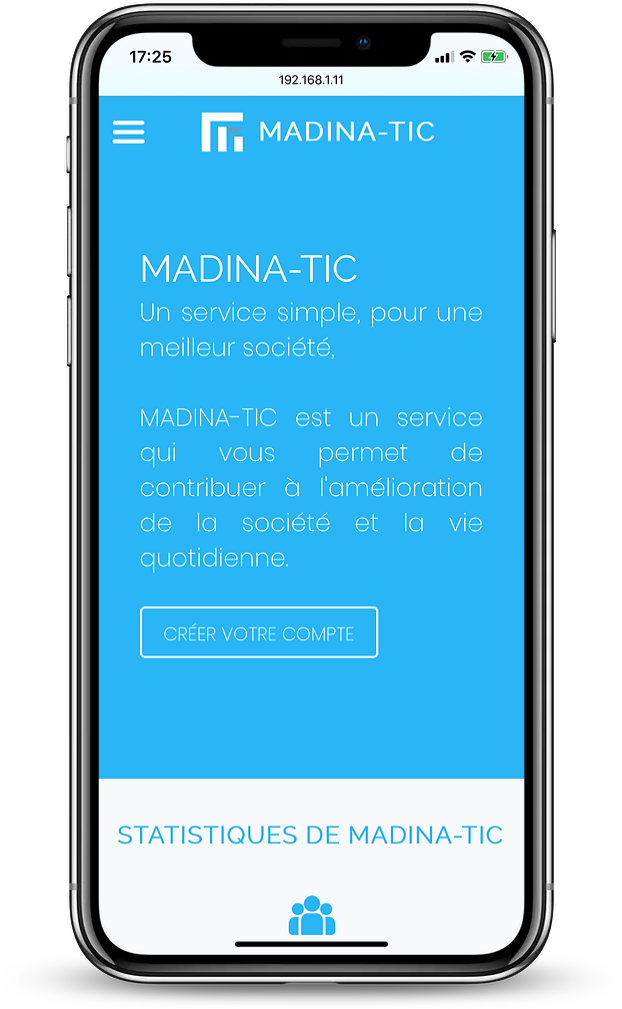
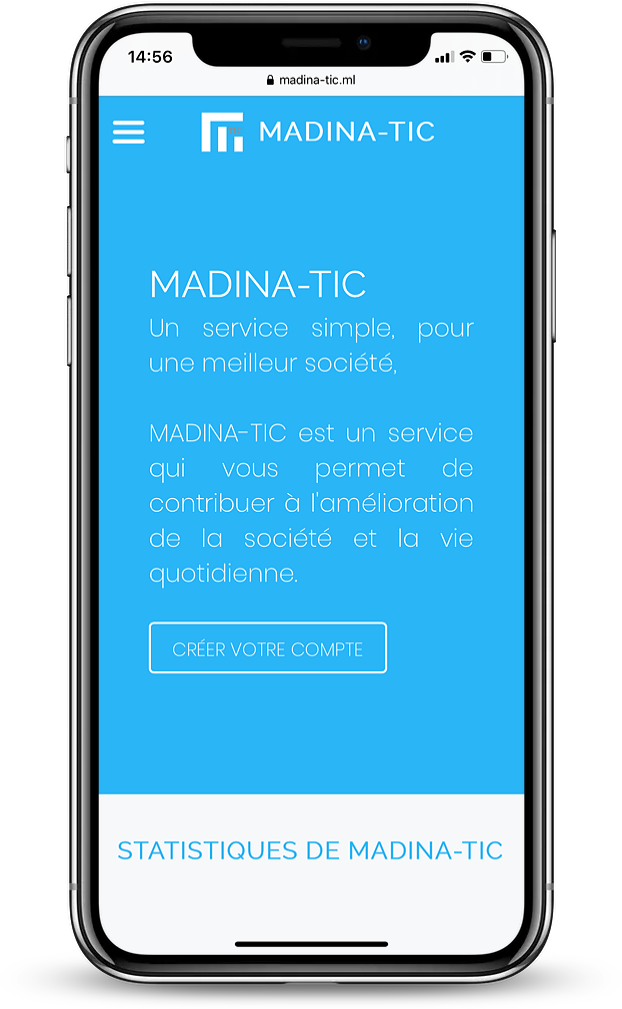
fixed bugs

diff --git a/frontend/src/components/HomeMain/HomeMain.jsx b/frontend/src/components/HomeMain/HomeMain.jsx
@@ -4,6 +4,8 @@ import { Image, Label } from "semantic-ui-react";
 import "./HomeMain.css";
 import iphone from "../../assets/images/iPhone_screenshot.png";
 import iphone2 from "../../assets/images/home_screenshot.png";
+import iphone2Ar from "../../assets/images/iphoneAr.png";
+import iphoneAr from "../../assets/images/iphone2Ar.png";
 import galaxy from "../../assets/images/android_screenshot.png";
 import badge from "../../assets/images/google_play_badge.png";
 import { ReactComponent as Checkmark } from "../../assets/icons/check_circle.svg";
@@ -20,6 +22,7 @@ import { useEffect } from "react";
 import axios from "axios";
 import AOS from "aos";
 import "aos/dist/aos.css"; // You can also use <link> for styles
+import { languages } from "../../language";
 // ..
 const HomeMain = (props) => {
   const { language } = props;
@@ -159,7 +162,7 @@ const HomeMain = (props) => {
             </Link>
           </div>
           <div className="_image_area">
-            <Image src={iphone2} className="_screenshot" />
+            <Image src={language.isFrench ? iphone2 : iphone2Ar} className="_screenshot" />
           </div>
         </div>
       </section>
@@ -202,7 +205,7 @@ const HomeMain = (props) => {
         <h1>{language.isFrench ? "fonctionnalités" : "المزايا و الخصائص"}</h1>
         <div className="_functions_body">
           <div className="_image_area">
-            <Image src={iphone} className="_screenshot" />
+            <Image src={language.isFrench ? iphone : iphoneAr} className="_screenshot" />
           </div>
           <div className="_items">
             {items.map((element) => {

diff --git a/frontend/src/components/HomeCitoyen/InfosScreen.jsx b/frontend/src/components/HomeCitoyen/InfosScreen.jsx
@@ -19,7 +19,7 @@ const InfoScreen = (props) => {
  const getData = (did) => {
   if (did)
    axios
-    .get("http://157.230.19.233/api/declarations/" + String(did) + "/", {
+    .get("https://www.madina-tic.ml/api/declarations/" + String(did) + "/", {
      headers: {
       "content-type": "application/json",
       Authorization: `Token ${localStorage.getItem("token")}`,
@@ -32,7 +32,7 @@ const InfoScreen = (props) => {
      if (res.data.status === "lack_of_info")
       axios
        .get(
-        `http://157.230.19.233/api/declarations_complement_demand/`,
+        `https://www.madina-tic.ml/api/declarations_complement_demand/`,
         {
          params: {
           declaration: did,
@@ -58,7 +58,7 @@ const InfoScreen = (props) => {
 
  const getTypes = () => {
   axios
-   .get("http://157.230.19.233/api/declarations_types/", {
+   .get("https://www.madina-tic.ml/api/declarations_types/", {
     headers: {
      "content-type": "application/json",
      Authorization: `Token ${localStorage.getItem("token")}`,

diff --git a/frontend/src/components/ComplementDeclaration/ComplementDeclaration.jsx b/frontend/src/components/ComplementDeclaration/ComplementDeclaration.jsx
@@ -120,7 +120,7 @@ const ComplementDeclaration = (props) => {
           },
         })
         .request({
-          url: "http://157.230.19.233/api/documents/",
+          url: "https://www.madina-tic.ml/api/documents/",
           method: "post",
           data: formData,
         })
@@ -144,7 +144,7 @@ const ComplementDeclaration = (props) => {
   const deleteFiles = () => {
     delP.map((elm) => {
       axios
-        .delete(`http://157.230.19.233/api/documents/${elm}`, {
+        .delete(`https://www.madina-tic.ml/api/documents/${elm}`, {
           headers: {
             "Content-type": "application/json",
             Authorization: `Token ${localStorage.getItem("token")}`,

diff --git a/frontend/src/components/UpdateDeclaration/UpdateDeclaration.jsx b/frontend/src/components/UpdateDeclaration/UpdateDeclaration.jsx
@@ -140,7 +140,7 @@ const UpdateDeclaration = (props) => {
           },
         })
         .request({
-          url: "http://157.230.19.233/api/documents/",
+          url: "https://www.madina-tic.ml/api/documents/",
           method: "post",
           data: formData,
         })
@@ -165,7 +165,7 @@ const UpdateDeclaration = (props) => {
   const deleteFiles = () => {
     delP.map((elm) => {
       axios
-        .delete(`http://157.230.19.233/api/documents/${elm}`, {
+        .delete(`https://www.madina-tic.ml/api/documents/${elm}`, {
           headers: {
             "Content-type": "application/json",
             Authorization: `Token ${localStorage.getItem("token")}`,

diff --git a/frontend/src/screens/Maire/Maire.jsx b/frontend/src/screens/Maire/Maire.jsx
@@ -29,7 +29,7 @@ const Maire = (props) => {
           },
         })
         .request({
-          url: "http://157.230.19.233/api/user/",
+          url: "https://www.madina-tic.ml/api/user/",
           method: "get",
         })
         .then((res) => {

diff --git a/frontend/src/components/Profile/InfosForm.jsx b/frontend/src/components/Profile/InfosForm.jsx
@@ -93,7 +93,7 @@ const InfosForm = (props) => {
         },
       })
       .request({
-        url: "http://157.230.19.233/api/user/",
+        url: "https://www.madina-tic.ml/api/user/",
         method: "patch",
         data: {
           email: email,
